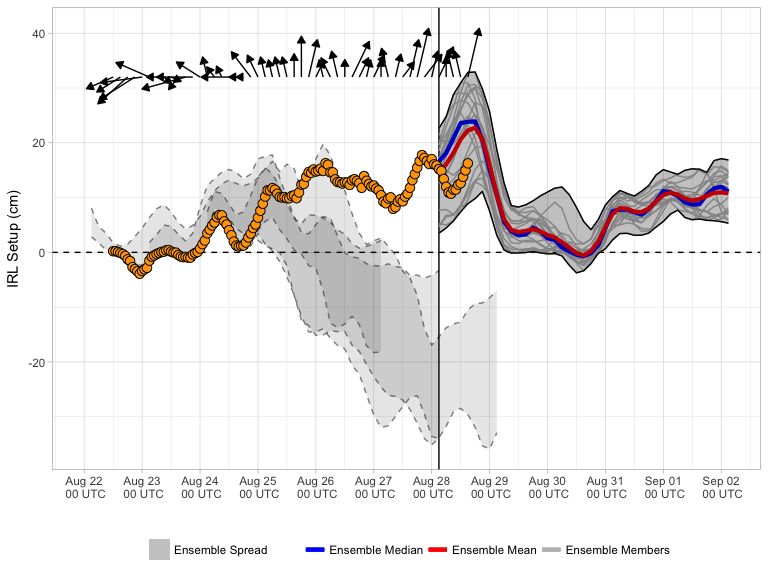
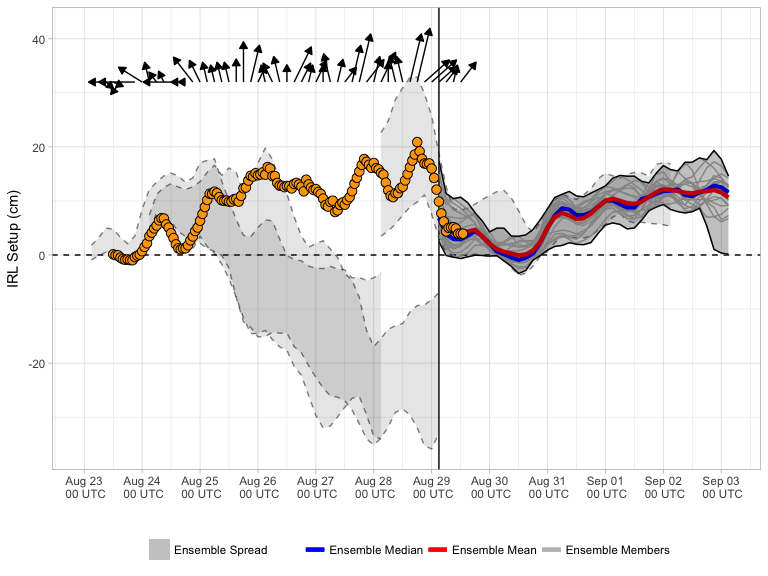
20170829 forecast update

diff --git a/docs/index.md b/docs/index.md
@@ -3,7 +3,7 @@ Current Forecast
 
 [![](img/raw_setup.png)](https://bhlmn.github.io/IRLSetup/img/raw_setup.png)
 
-> Forecast valid 2017-08-28 09:18:29.
+> Forecast valid 2017-08-29 06:53:50.
 
 Explanation
 -----------
@@ -17,7 +17,7 @@ star), and Sebastian, FL (white star). In general, southerly (northerly)
 winds result in increased water elevation near Titusville (Sebastian)
 and positive (negative) setup.
 
-The current (18 UTC 2017-08-27) 0.5° [Global Ensemble Forecast System
+The current (18 UTC 2017-08-28) 0.5° [Global Ensemble Forecast System
 (GEFS)](https://www.ncdc.noaa.gov/data-access/model-data/model-datasets/global-ensemble-forecast-system-gefs)
 mean and median forecasts of setup are represented by the red and blue
 curves, respectively. Ensemble spread from the current and three
